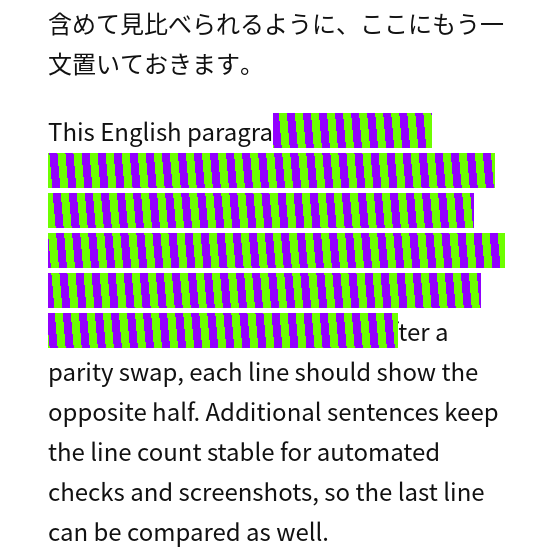
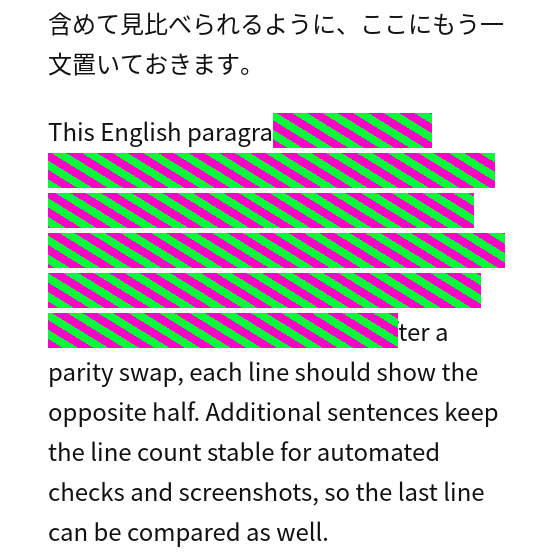
0.6.1: 視覚増強の回転軸と縞の場を、全選択範囲を包む一つの四角にする
先頭行の左上を原点にせず、選択したすべての行（画面外も含む）を包む四角を場にする。
回転の軸とその移動範囲もその四角の中。スクロールや組み直しのあとも、いまの行の位置から四角をやり直す。

Changed region(s): [[0.0607, 0.1821, 0.9107, 0.6375]]

diff --git a/src/content.js b/src/content.js
@@ -872,8 +872,9 @@
   }
 
   // ---- 視覚増強 ----
-  // 選択範囲の各行（見えている部分）を、視覚増強器と同じ斜めの縞で置き換える。
-  // 縞は選択の先頭行の左上に固定した座標で決めるので、スクロールにも付いてくる。
+  // 選択したすべての行を包む一つの四角を、縞の場と回転の軸の範囲にする。
+  // アプリが画面全体を一つの場にするのと同じで、各行はその場を見る窓として塗る。
+  // スクロールや組み直しのあとも、いまの行の位置から四角をやり直す。
   // 1 画素ずつ二色のどちらかを決めて ImageData で描く（縁をぼかさない）。
   function enhK() {
     return (window.devicePixelRatio || 1) / clientScale(enh.canvas);
@@ -894,28 +895,31 @@
     return { lines, rects };
   }
 
-  // 縞の座標系の原点（先頭行の左上）と、回転の軸を決める領域（開始時に見えていた範囲）を求める。
-  function enhAnchor(lines) {
-    const k = enhK();
-    const a = lines[0];
-    if (a) { enh.ax = Math.round(a.left * k); enh.ay = Math.round(a.top * k); }
-  }
-
-  function enhBox(lines, rects) {
+  // 画面外の行も含め、選択したすべての行を包む四角。原点はその左上。
+  function enhBounds(lines) {
     const k = enhK();
     let l = Infinity, t = Infinity, r = -Infinity, b = -Infinity;
-    const list = rects.length ? rects : lines.map((x) => ({
-      left: x.left, top: x.top, width: x.right - x.left, height: x.bottom - x.top
-    }));
-    for (const x of list) {
-      l = Math.min(l, x.left); t = Math.min(t, x.top);
-      r = Math.max(r, x.left + x.width); b = Math.max(b, x.top + x.height);
+    for (const x of lines) {
+      if (!x) continue;
+      l = Math.min(l, x.left);
+      t = Math.min(t, x.top);
+      r = Math.max(r, x.right);
+      b = Math.max(b, x.bottom);
     }
-    if (!Number.isFinite(l)) return { x: 0, y: 0, w: 1, h: 1 };
-    return {
-      x: Math.round(l * k) - enh.ax, y: Math.round(t * k) - enh.ay,
-      w: Math.max(1, Math.round((r - l) * k)), h: Math.max(1, Math.round((b - t) * k))
-    };
+    if (!Number.isFinite(l)) return { ax: 0, ay: 0, w: 1, h: 1 };
+    const ax = Math.round(l * k), ay = Math.round(t * k);
+    return { ax, ay, w: Math.max(1, Math.round(r * k) - ax), h: Math.max(1, Math.round(b * k) - ay) };
+  }
+
+  function enhApplyBounds(lines) {
+    const b = enhBounds(lines);
+    enh.ax = b.ax;
+    enh.ay = b.ay;
+    if (!enh.box) enh.box = { w: b.w, h: b.h };
+    else { enh.box.w = b.w; enh.box.h = b.h; }
+    enh.reach = Math.hypot(b.w, b.h);
+    if (enh.motion && enh.motion.resize) enh.motion.resize(b.w, b.h);
+    return b;
   }
 
   function enhDraw() {
@@ -960,16 +964,13 @@
   }
 
   function enhPoseAt(t) {
-    const p = enh.motion.pose(t);
-    p.px += enh.box.x;
-    p.py += enh.box.y;
-    return p;
+    return enh.motion.pose(t);
   }
 
   function enhRelayout() {
     const lay = enhLayout();
-    enhAnchor(lay.lines);
     enh.rects = lay.rects;
+    enhApplyBounds(lay.lines);
     enhDraw();
   }
 
@@ -1007,11 +1008,9 @@
 
   function enhStartMotion(t0) {
     const lay = enhLayout();
-    enhAnchor(lay.lines);
     enh.rects = lay.rects;
-    enh.box = enhBox(lay.lines, lay.rects);
-    enh.reach = Math.hypot(enh.box.w, enh.box.h);
-    enh.motion = ENH.createMotion(enhCfg, enh.seed, enh.box.w, enh.box.h);
+    const b = enhApplyBounds(lay.lines);
+    enh.motion = ENH.createMotion(enhCfg, enh.seed, b.w, b.h);
     enh.t0 = t0;
     enh.pose = enhPoseAt(0);
     enh.drawn = null;

diff --git a/src/enhance.js b/src/enhance.js
@@ -153,6 +153,10 @@
     const wandering = c.auto || (c.rotate && c.wander);
     let autoT = 0, autoFlow = 0, autoAng = BASE_ANGLE;
     let prev = null, comp = 0;
+    function resize(nw, nh) {
+      if (nw > 0) w = nw;
+      if (nh > 0) h = nh;
+    }
     function pose(t) {
       t = Math.max(0, t);
       let ang = BASE_ANGLE, flow;
@@ -180,7 +184,7 @@
         width, rotating,
       };
     }
-    return { pose, width };
+    return { pose, width, resize };
   }
 
   // 点サンプリングで塗る。どの画素も c0 か c1 の一色（アンチエイリアスなし）。

diff --git a/README.md b/README.md
@@ -9,15 +9,15 @@
 
 オンとオフ、塗りの入れ替えは、ツールバー（Android ではメニューのアドオン）を開いてボタンで操作します。パソコンではキーボードでも操作できます。ショートカットは、ツールバーのポップアップで入力欄に実際のキーを押して設定できます。既定は Alt+Shift+L（オンオフ）と Alt+Shift+K（入れ替え）です。「既定に戻す」で元に戻せます。タッチ端末では、オンのときに3本指で短くタップすると入れ替わります。指が1本ずつ着いても認識します。2本指の拡大縮小や、指を動かしたスクロールでは反応しません。端末が3本指をスクリーンショットなどに使う場合は、2本指で続けて2回タップしても入れ替わります。
 
-現在のソースは 0.6.0 です。パソコンと Android の Firefox で動きます。塗りの部分は白黒の斜め縞です。白の幅と黒の幅（それぞれ 1〜16px、既定はどちらも 8px）と速さ（0〜60px/秒、既定 30px/秒）はポップアップで変えられます。たとえば白 2px・黒 1px にもできます。0 にすると止まります。縞は常に法線方向（縞を横切る向き）に流れ、周期で折り返すので継ぎ目は出ません。OS の動きを減らす設定でも流れます。マスクの割合は 50 から 90 パーセントで、同じポップアップから変えられます。51 にすると、どの行も中央の 2 パーセントは通常でも入れ替えでも隠れます。
+現在のソースは 0.6.1 です。パソコンと Android の Firefox で動きます。塗りの部分は白黒の斜め縞です。白の幅と黒の幅（それぞれ 1〜16px、既定はどちらも 8px）と速さ（0〜60px/秒、既定 30px/秒）はポップアップで変えられます。たとえば白 2px・黒 1px にもできます。0 にすると止まります。縞は常に法線方向（縞を横切る向き）に流れ、周期で折り返すので継ぎ目は出ません。OS の動きを減らす設定でも流れます。マスクの割合は 50 から 90 パーセントで、同じポップアップから変えられます。51 にすると、どの行も中央の 2 パーセントは通常でも入れ替えでも隠れます。
 
 「線の傾きと流れの左右をランダム」をオフにすると、傾きは 45 度、進む向きは従来どおり縞を横切る方向です。オンにすると、傾き（0〜180 度）と、法線の左右（どちら向きに進むか）がランダムになります。ランダムは、マスクを始めたとき、選択範囲モードの 3 秒ごとの自動入れ替え、手動の入れ替え、ランダム設定をオンにしたときに引き直します。同じマスクを表示したままでは変わりません。
 
 パソコンでは、テキストを選択してコンテキストメニューの「選択範囲だけマスク」を選ぶと、その選択が乗っている視覚行だけを塗ります。塗る横幅は行箱全体ではなく、選択された範囲の横幅です。マスクを始めると、ページ上の選択（青いハイライト）は外れます。このモードでは 3 秒ごとに塗る半分が自動で入れ替わります。マスクしていないところをクリックすると終わります（クリック自体は通常どおり届きます）。ページ全体のマスクがオンでも、選択範囲モードが一時的にそれに取って代わり、終わると元に戻ります。このメニューは menus API が使えるパソコン向けです。Android にはコンテキストメニューのこの API がないので、代わりにツールバー（メニューのアドオン）のポップアップにある「選択範囲だけマスク」ボタンを使います。ページで文字を選んでから、アドオンを開いてボタンを押してください（選んだ直後の範囲を使います。60 秒より前の選択は使いません）。終わらせるには、マスクのないところをタップします。スクロールのための指の動きでは終わりません。0.4.0 では、メニューを確定したときに選択が消えると動かないことがありました。0.4.1 以降は、右クリックの時点の選択を保持し、content script がまだ入っていないタブには注入してから実行します。
 
-## 視覚増強（0.6.0 の試作）
+## 視覚増強（0.6.1 の試作）
 
-Android アプリ「視覚増強器」と同じ動きの縞を、選択した範囲にだけ重ねます。範囲の文字は縞で隠れます。範囲は、選択した各行の、選択された横幅の部分です。縞は選択の先頭行の左上を原点にして描くので、ページをスクロールしても文字に付いてきます。縞の上でも文字は選択でき、クリックやタップはページに届きます（`pointer-events: none`）。
+Android アプリ「視覚増強器」と同じ動きの縞を、選択した範囲にだけ重ねます。範囲の文字は縞で隠れます。範囲は、選択した各行の、選択された横幅の部分です。縞は、選択したすべての行を包む一つの四角を場にして描きます（回転の軸もその四角の中を動きます）。各行はその場を見る窓です。ページをスクロールしても文字に付いてきます。縞の上でも文字は選択でき、クリックやタップはページに届きます（`pointer-events: none`）。
 
 - 始める（パソコン）: 文字を選んで右クリックし、「選択範囲に視覚増強」を選びます。
 - 始める（Android など menus API がない環境）: 文字を選んでから、アドオンのポップアップの「選択範囲に視覚増強」を押します。選んだ直後の範囲を使います（60 秒より前の選択は使いません）。
@@ -40,6 +40,7 @@ Android アプリ「視覚増強器」と同じ動きの縞を、選択した範
 ![白黒の縞](screenshots/enhance-bw.png)
 ![色モード](screenshots/enhance-color.png)
 ![ゆっくりランダム](screenshots/enhance-auto.png)
+![回転しても行をまたいで一つの場](screenshots/enhance-rotate.png)
 ![色・回転・流れ](screenshots/enhance-flow.gif)
 
 | 操作 | パソコン | タッチ |
@@ -67,11 +68,11 @@ Android アプリ「視覚増強器」と同じ動きの縞を、選択した範
 
 Firefox を終了しても、署名済みのアドオンは入ったままです。
 
-### 0.6.0（パソコンと Android、視覚増強の試作）
+### 0.6.1（パソコンと Android、視覚増強の試作）
 
-[v0.6.0](https://github.com/zmlworks/line-half-mask/releases/tag/v0.6.0) の xpi は未署名の試作版です。Mozilla（AMO）には出していません（AMO で審査中なのは 0.5.0 です）。公開版の Firefox には常設できません。パソコンでは、次の一時的な読み込みで試せます。0.5.0 の xpi も同じ手順です。
+[v0.6.1](https://github.com/zmlworks/line-half-mask/releases/tag/v0.6.1) の xpi は未署名の試作版です。Mozilla（AMO）には出していません（AMO で審査中なのは 0.5.0 です）。公開版の Firefox には常設できません。パソコンでは、次の一時的な読み込みで試せます。0.5.0 の xpi も同じ手順です。
 
-1. リリースの `line-half-mask-0.6.0.xpi` を展開するか、このリポジトリの `src/manifest.json` を使います。
+1. リリースの `line-half-mask-0.6.1.xpi` を展開するか、このリポジトリの `src/manifest.json` を使います。
 2. Firefox で `about:debugging` を開きます。
 3. 「この Firefox」を選び、「一時的なアドオンを読み込む」を押します。
 4. `src/manifest.json` を選択します。
@@ -102,10 +103,10 @@ node tests/enhance-shots.mjs   # 視覚増強の画面写真と GIF を作り直
 ## ビルド
 
 ```sh
-cd src && zip -r -X ../line-half-mask-0.6.0.zip .
+cd src && zip -r -X ../line-half-mask-0.6.1.zip .
 ```
 
-`line-half-mask-0.6.0.xpi` は同じ中身です。署名はありません。0.3.x 以降の xpi は未署名です。
+`line-half-mask-0.6.1.xpi` は同じ中身です。署名はありません。0.3.x 以降の xpi は未署名です。
 
 ## 制限
 
@@ -117,7 +118,7 @@ cd src && zip -r -X ../line-half-mask-0.6.0.zip .
 - `about:` など、アドオンが入れないページでは動きません。
 - キーボードショートカットはパソコン向けです。Android では使いません。
 - 視覚増強は同時に一か所だけです。範囲の文字は縞で完全に隠れます（半透明にはしません）。縞はデバイス画素の単位で、表示倍率を変えると縞の見かけの太さも変わります。
-- 視覚増強の縞の座標は選択の先頭行の左上が原点です。文章が組み直されて先頭行が動くと、縞も一緒に少しずれます。画面外の行は描かないので、スクロールすると見えた分だけ描かれます。とても広い範囲（数十万画素以上）を選んだままの高速スクロールは重くなることがあります。
+- 視覚増強の縞の場は、選択したすべての行を包む四角です（画面外の行も含みます）。スクロールや組み直しのあとも、その四角をいまの行の位置からやり直します。塗るのは見えている行だけです。とても広い範囲（数十万画素以上）を選んだままの高速スクロールは重くなることがあります。
 - 視覚増強をメニューから始められるのはパソコンだけです。Android の実機ではまだ確認していません（ポップアップのボタンは、選択範囲モードと同じ経路です）。
 - iframe の中の選択は、ポップアップのボタンでは扱えません（メニューなら扱えます）。
 
